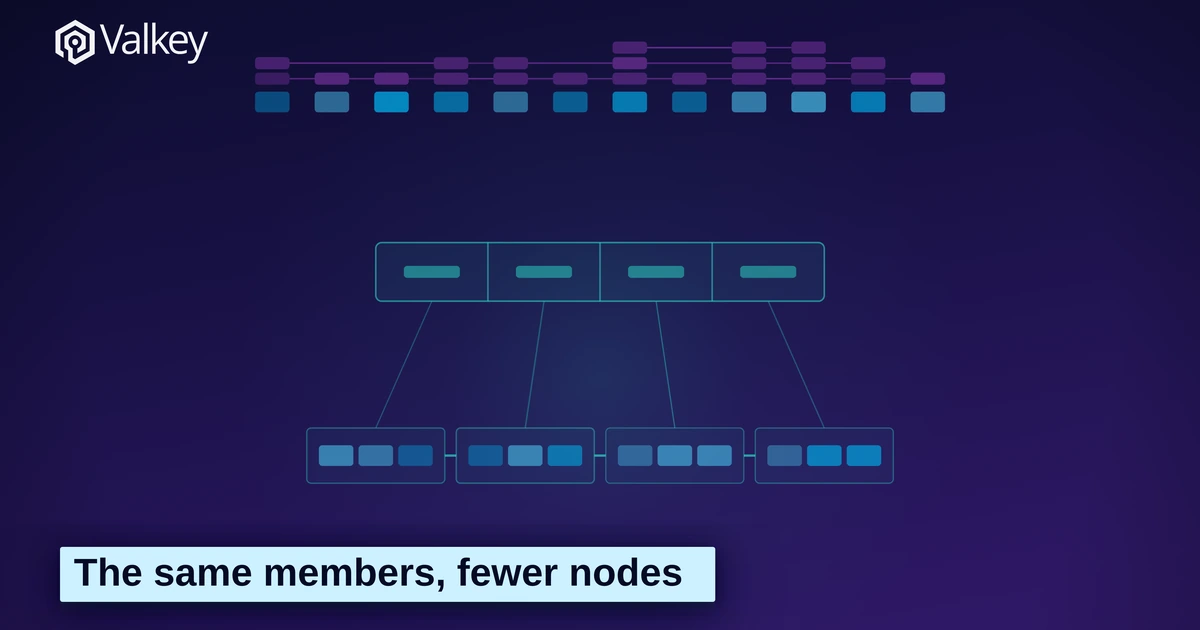
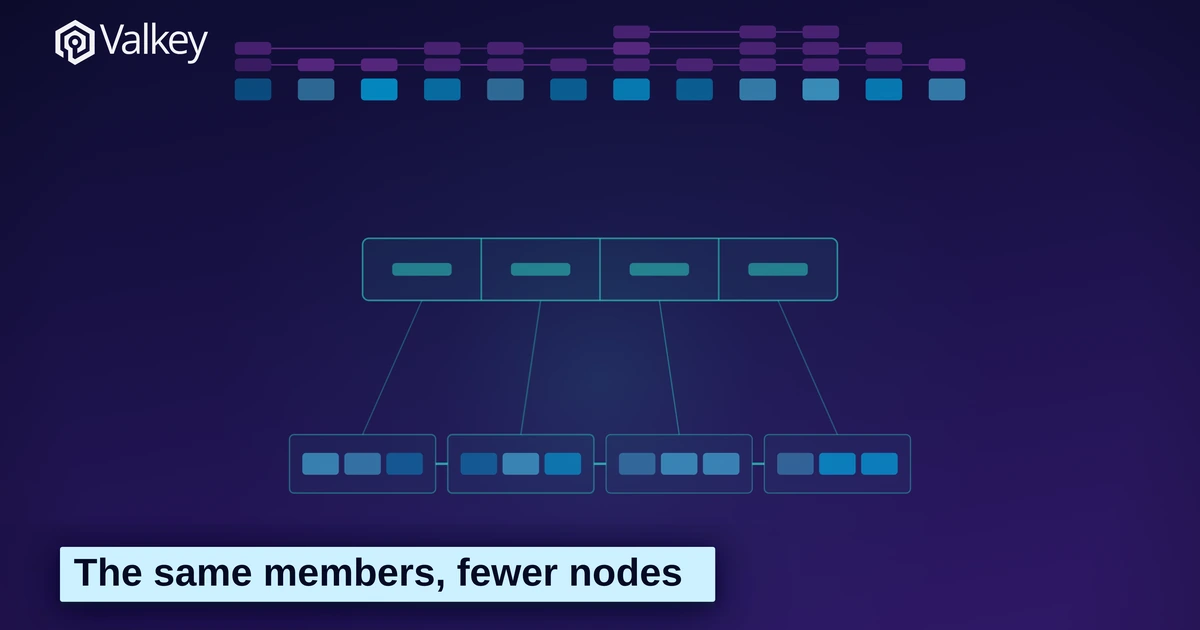
Scale to the safe limit, and say the fill figure is not a content quota

diff --git a/DESIGN.md b/DESIGN.md
@@ -171,9 +171,27 @@ the **width**, which is the constraint people get wrong. Anything that must stay
 between 15% and 85% of the framed width. Streaks and graph edges may bleed off; a sliced mark
 reads as a bug.
 
-The motif fills 75-80% of the framed height, and the left and right margins are within about 3%
-of each other. Fix framing with `zoom` and `center`; if the composition is off-centre, move the
-drawing, not the crop.
+The left and right margins are within about 3% of each other. Fix framing with `zoom` and
+`center`; if the composition is off-centre, move the drawing, not the crop.
+
+**The 75-80% height figure is an outcome of scaling, not a quota to hit.** The rule it stands in
+for is "the motif is as large as the frame allows", and the procedure is:
+
+1. Raise `zoom` until the outermost thing that must stay whole reaches 17% or 83% of the framed
+   width. Not 15/85 — that is where the narrow crop *cuts*, so a box landing on it gets shaved.
+2. If that leaves you short of 75%, make the drawing **narrower**: fewer elements, larger. A row of
+   four leaves takes more zoom than a row of five and says the same thing.
+3. Stop there. Whatever percentage falls out is the right one.
+
+**Never add elements, levels or repetitions to reach a fill number.** That is principle 3's failure
+wearing principle 12's clothes, and it makes a banner busier rather than better. The goal is a
+crisper image, not a fuller one.
+
+Measure it rather than eyeballing it: difference the chrome-free render against the per-pixel median
+of a sample of them, which is exactly the shared sky, and read the bounding box off that.
+`fbtree-soft-two-levels` was measured at 0.17..0.83 of the width with 59% height fill, and taking it
+to the 15/85 limit gained four points of fill and sliced its outer leaves, so it went back. That is
+what "framing exhausted" looks like, and the honest next move is a narrower drawing.
 
 ## 13. One frame cannot say that something used to be worse
 
